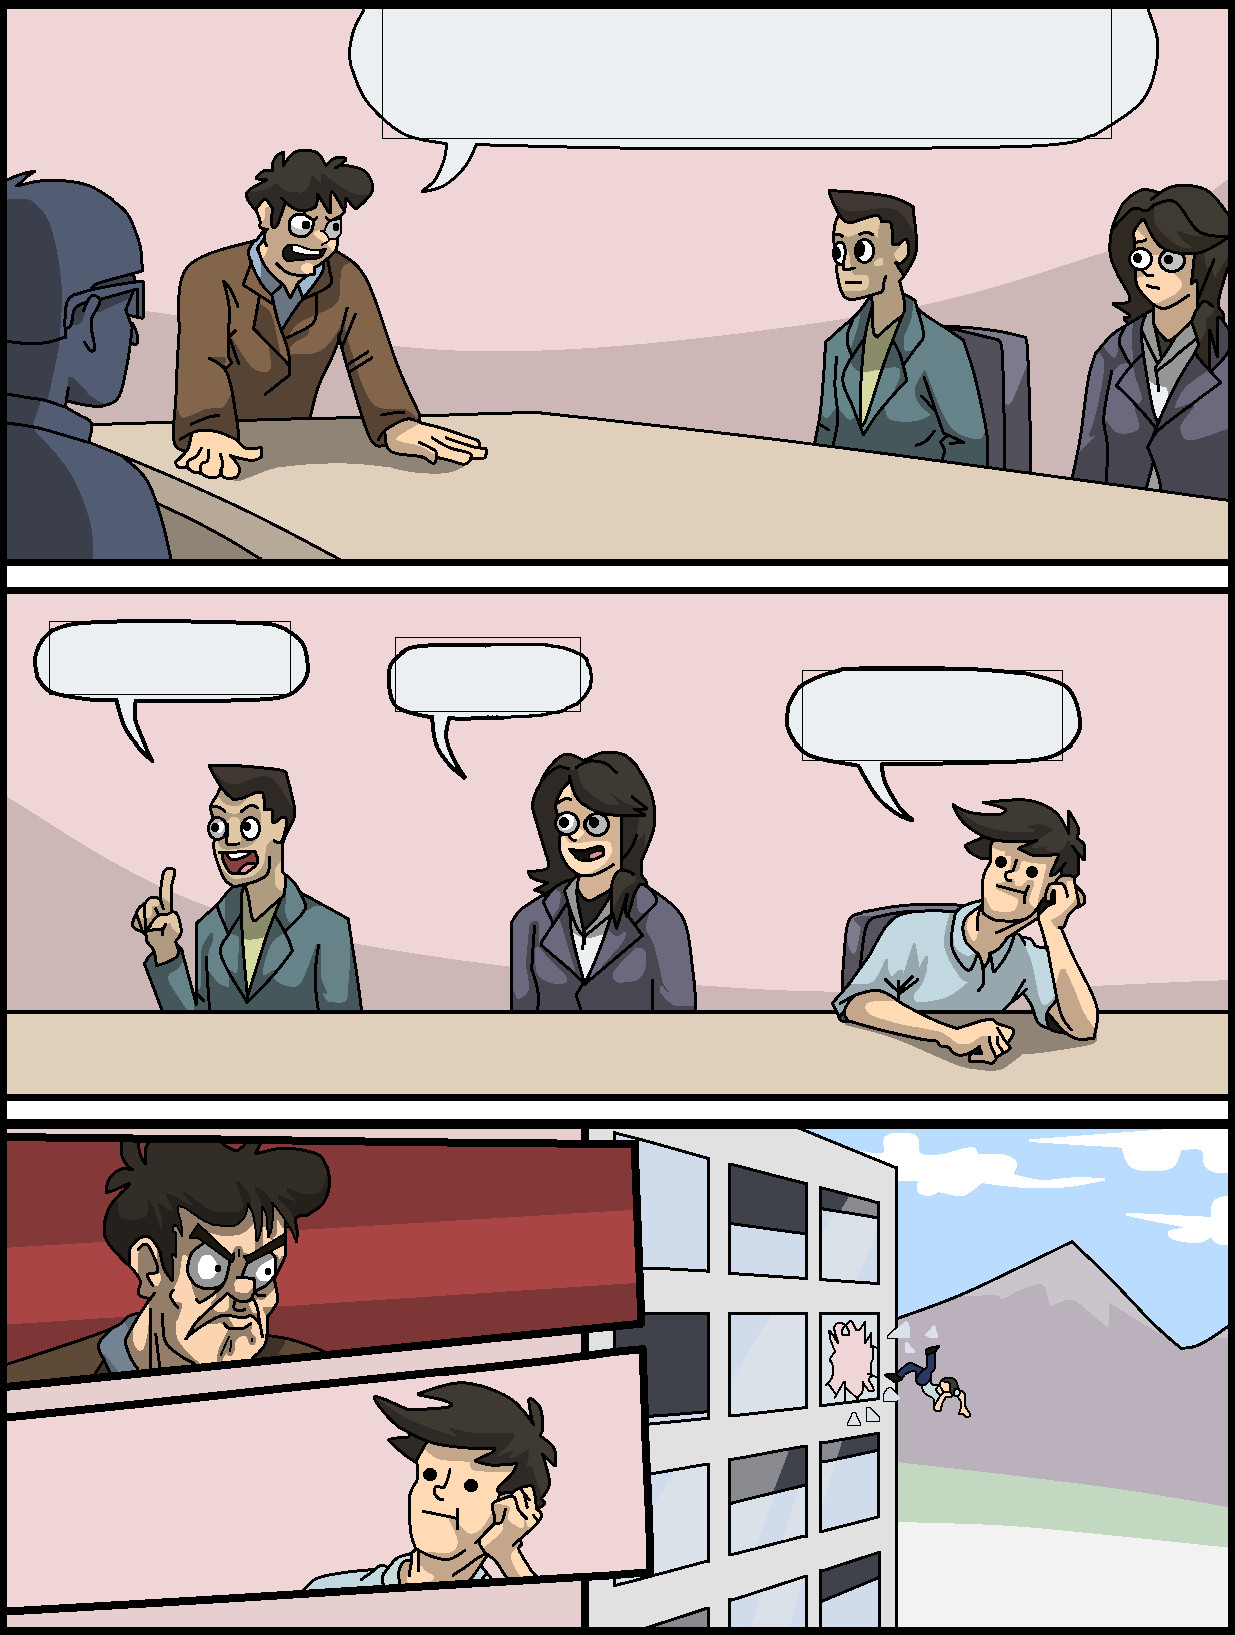
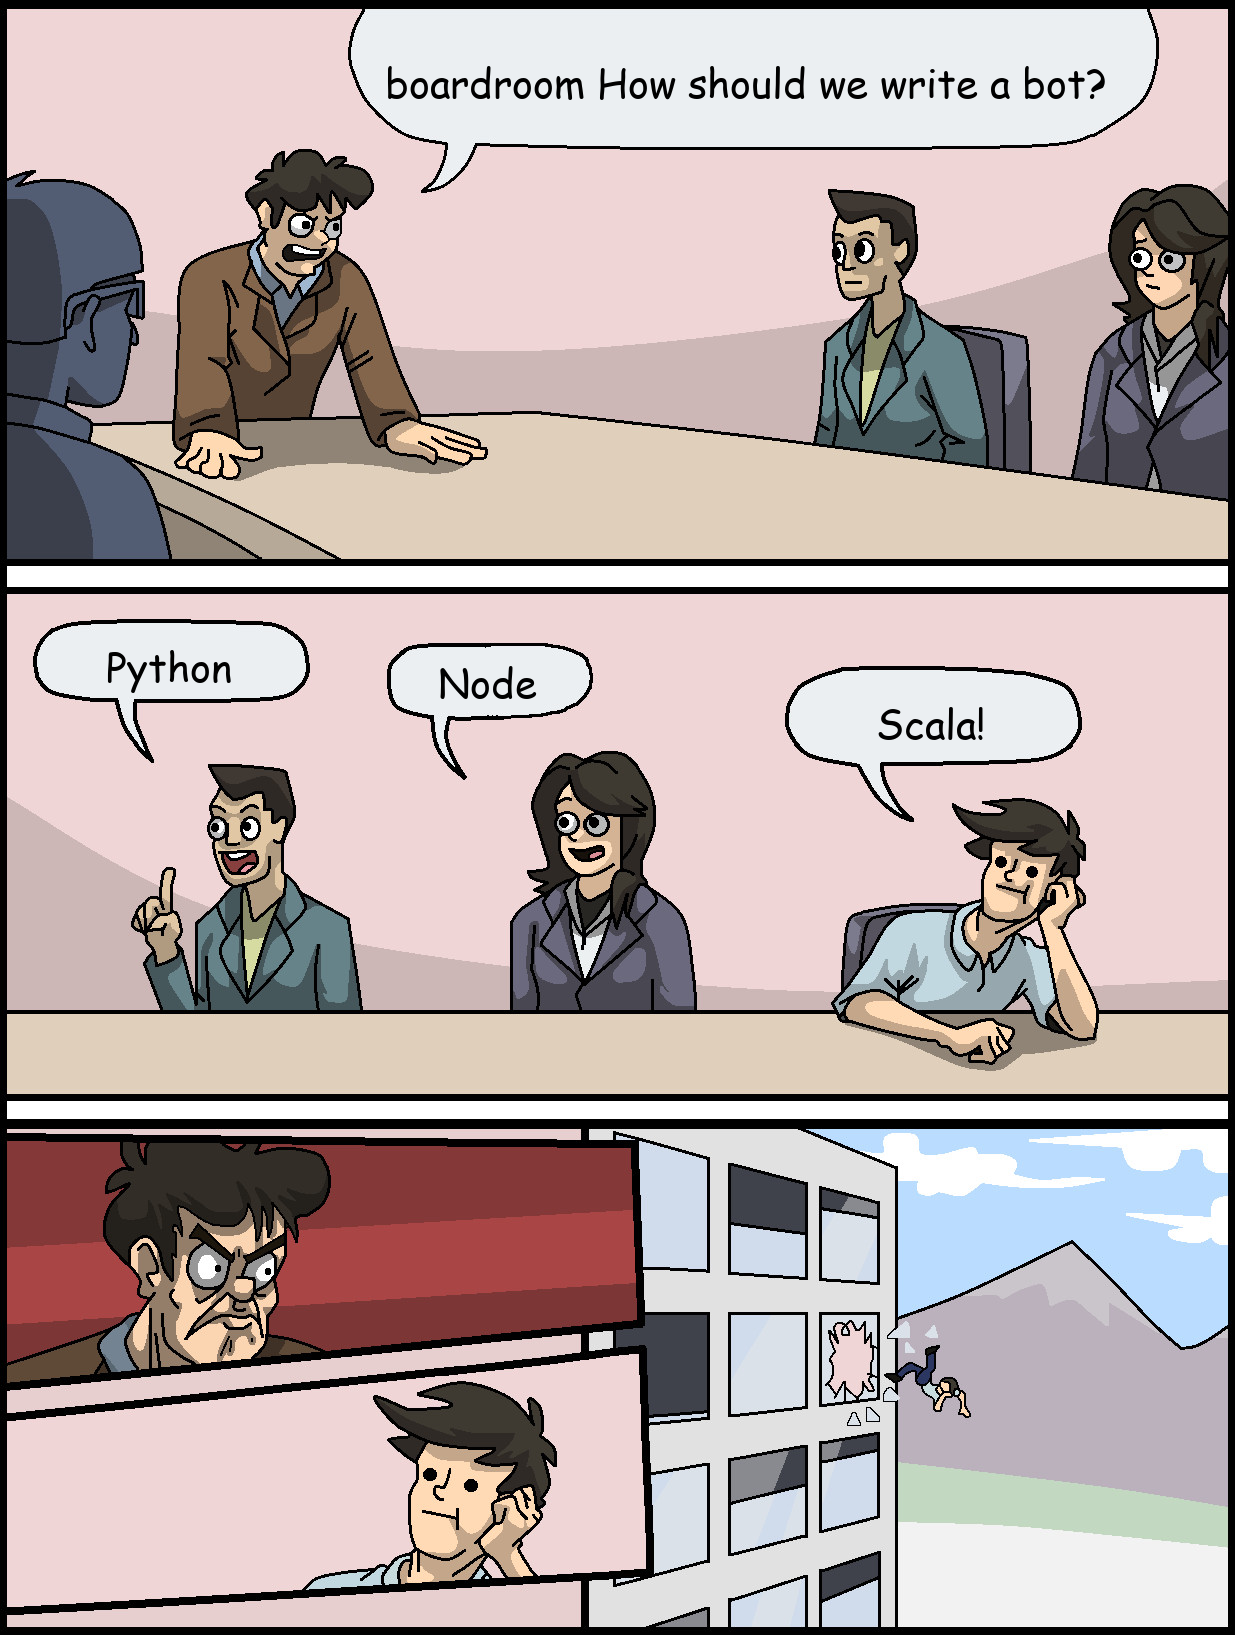
fix for python 3.7 bug

diff --git a/test/test.py b/test/test.py
@@ -6,6 +6,7 @@ parentdir = os.path.dirname(currentdir)
 sys.path.append(parentdir)
 
 from  memegenerator import MemeTemplate,  TextBox
+from bot import _reflow_text
 
 # load layouts
 with open("config/layouts.json", "rb") as t:
@@ -29,7 +30,7 @@ def _test_meme():
     # with open("text7.png", 'wb') as f:
     #     memes["successkid"].render(("Can you feel the BDE","radiating off my body?"), f)
     with open("test/text1.png", 'wb') as f:
-        memes["change-my-mind"].render(("Stay Hungry, Stay Foolish\n-Some Dude",), f)
+        memes["boardroom"].render(_reflow_text("boardroom How should we write a bot? / Python / Node / Scala!".split(), 4), f)
 
 
 def _test_dump_memes():
@@ -46,10 +47,10 @@ def main():
     _test_dump_layouts()
     print("All tests run.")
 
-# if __name__ == "__main__":
-#     main()
+if __name__ == "__main__":
+    main()
 
 
-with open("test/text1.png", 'wb') as f:
-    memes['boardroom'].debug(f)
+# with open("test/text1.png", 'wb') as f:
+#     memes['boardroom'].debug(f)
 

diff --git a/bot.py b/bot.py
@@ -46,11 +46,11 @@ with open("config/messages.json", "rb") as c:
 def partition_on(pred, seq):
     i = iter(seq)
     while True:
-        n = next(i)
         try:
-            yield takewhile(lambda v: not pred(v), chain([n], i))
+            n = next(i)
         except StopIteration:
             return
+        yield takewhile(lambda v: not pred(v), chain([n], i))
 
 
 def _write_stats():
@@ -164,4 +164,5 @@ def _reflow_text(text, count):
         return result
 
 
-bot.run(creds["discord_token"])
+if __name__ == "__main__":
+    bot.run(creds["discord_token"])
